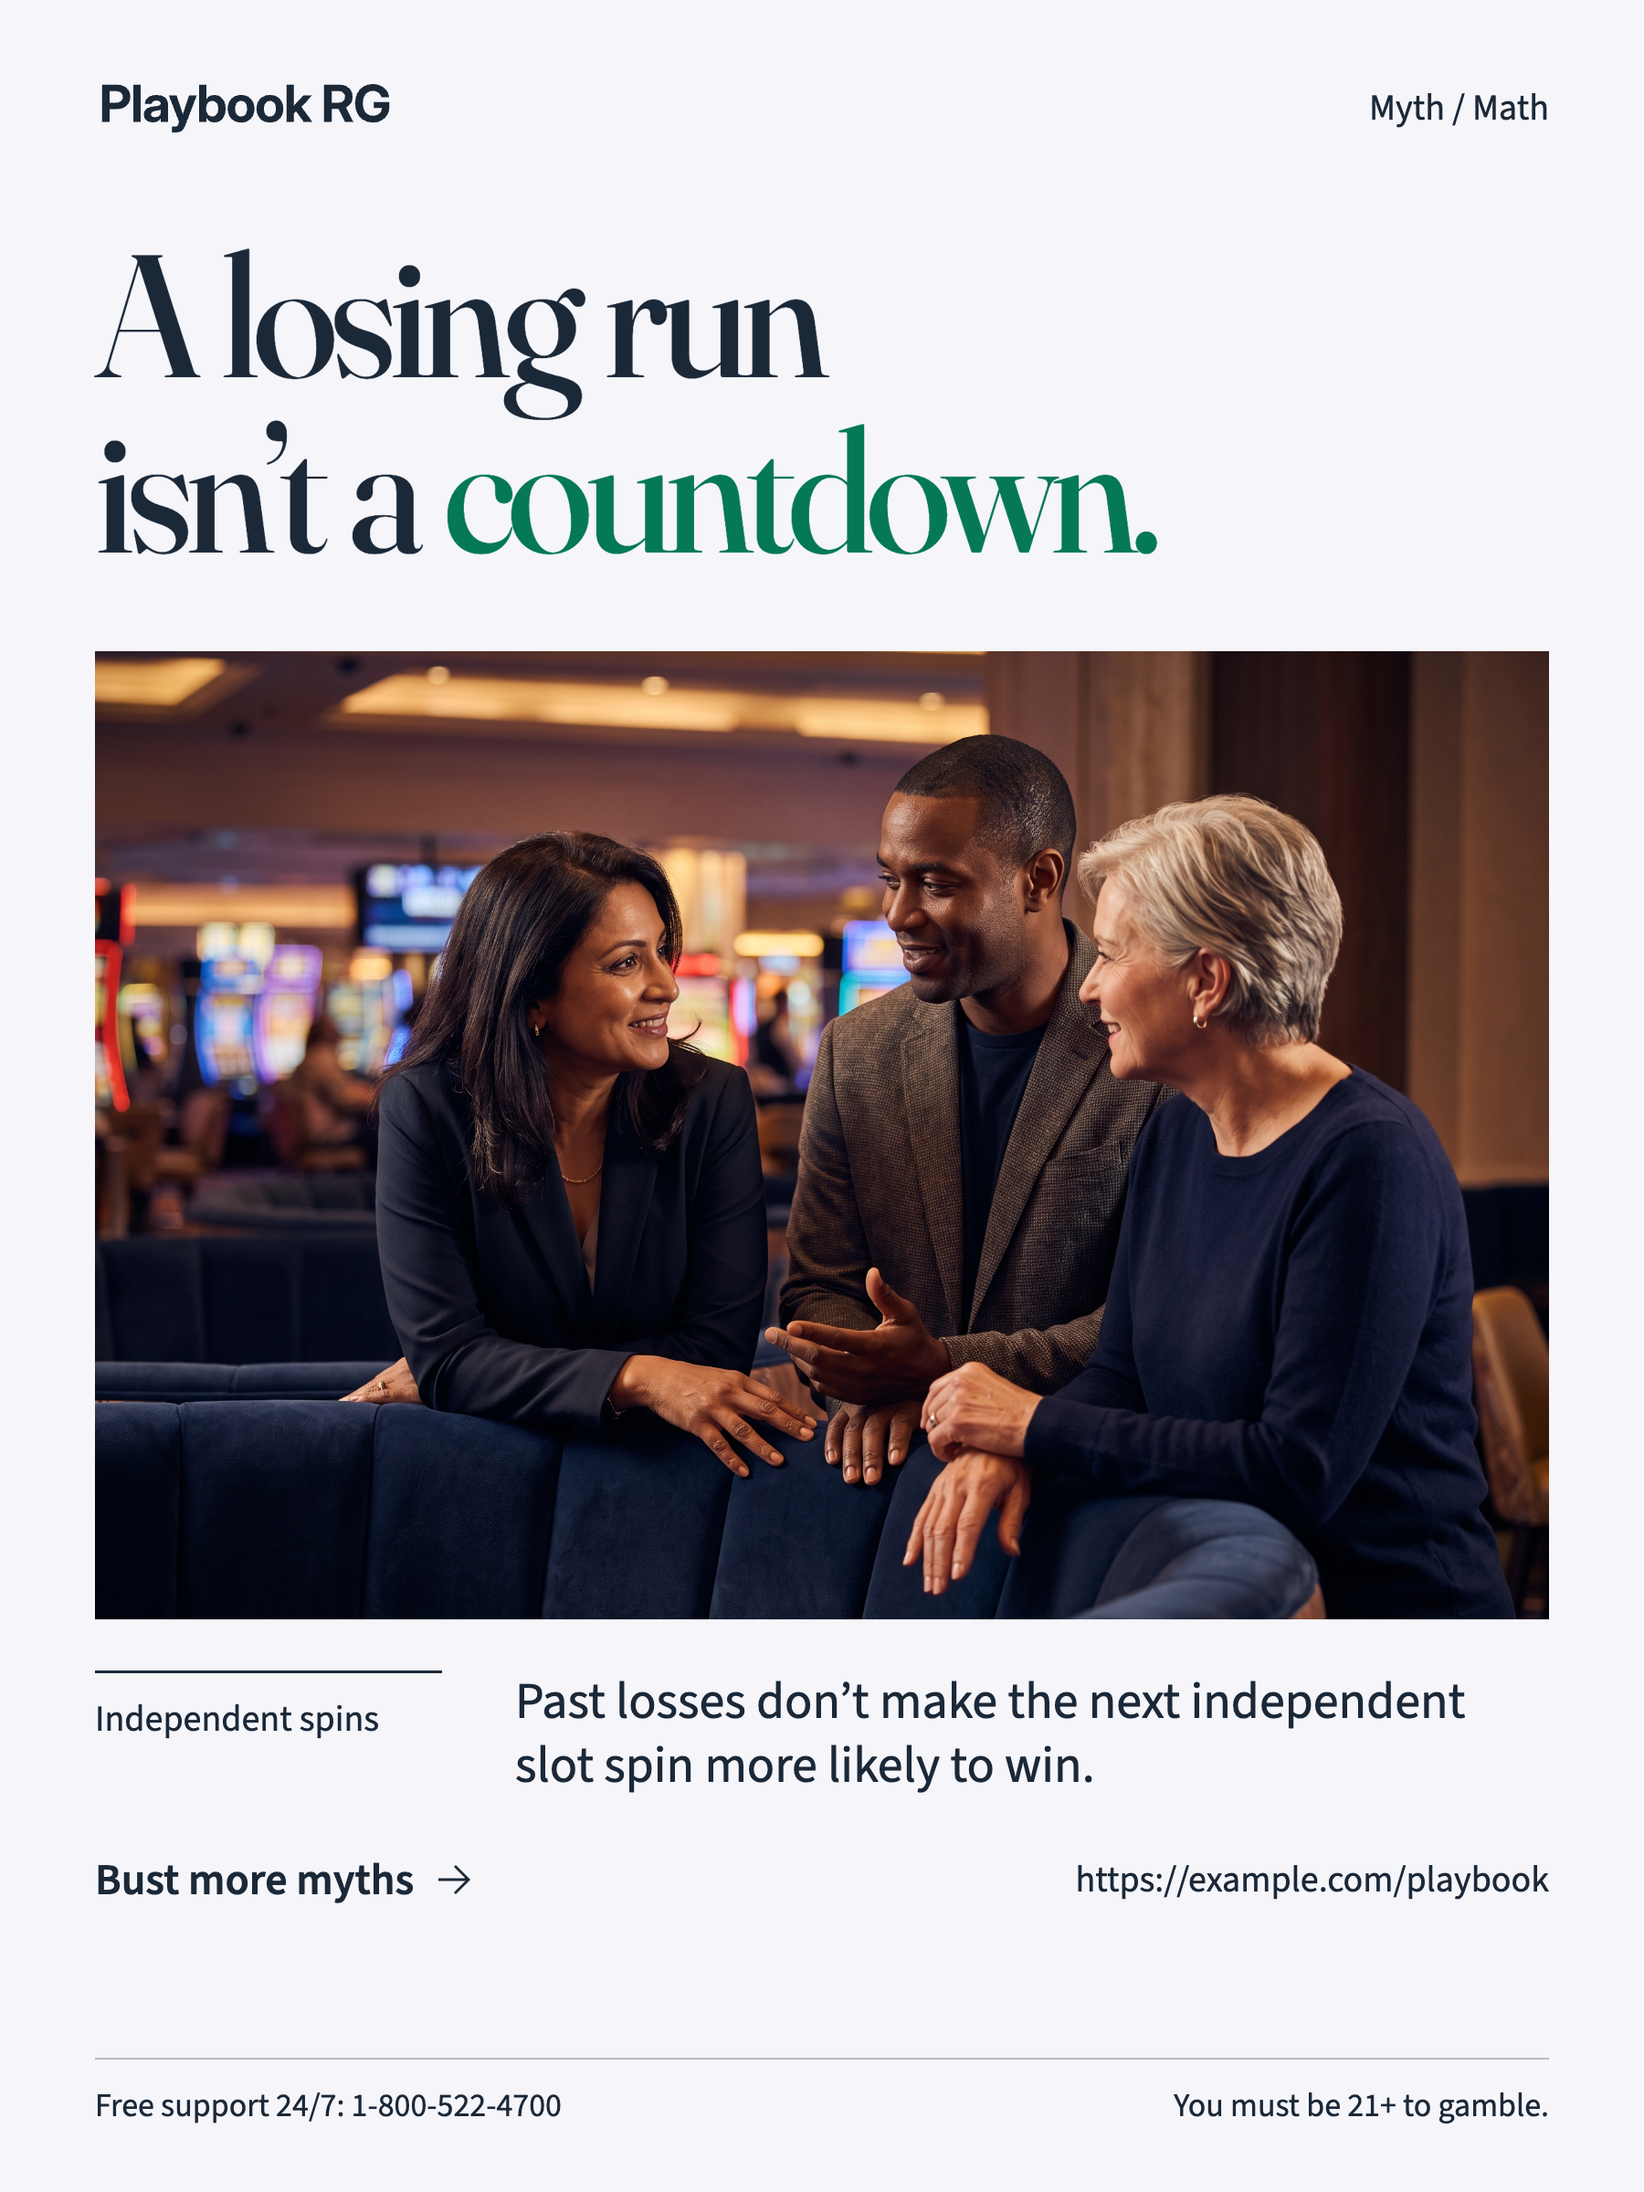
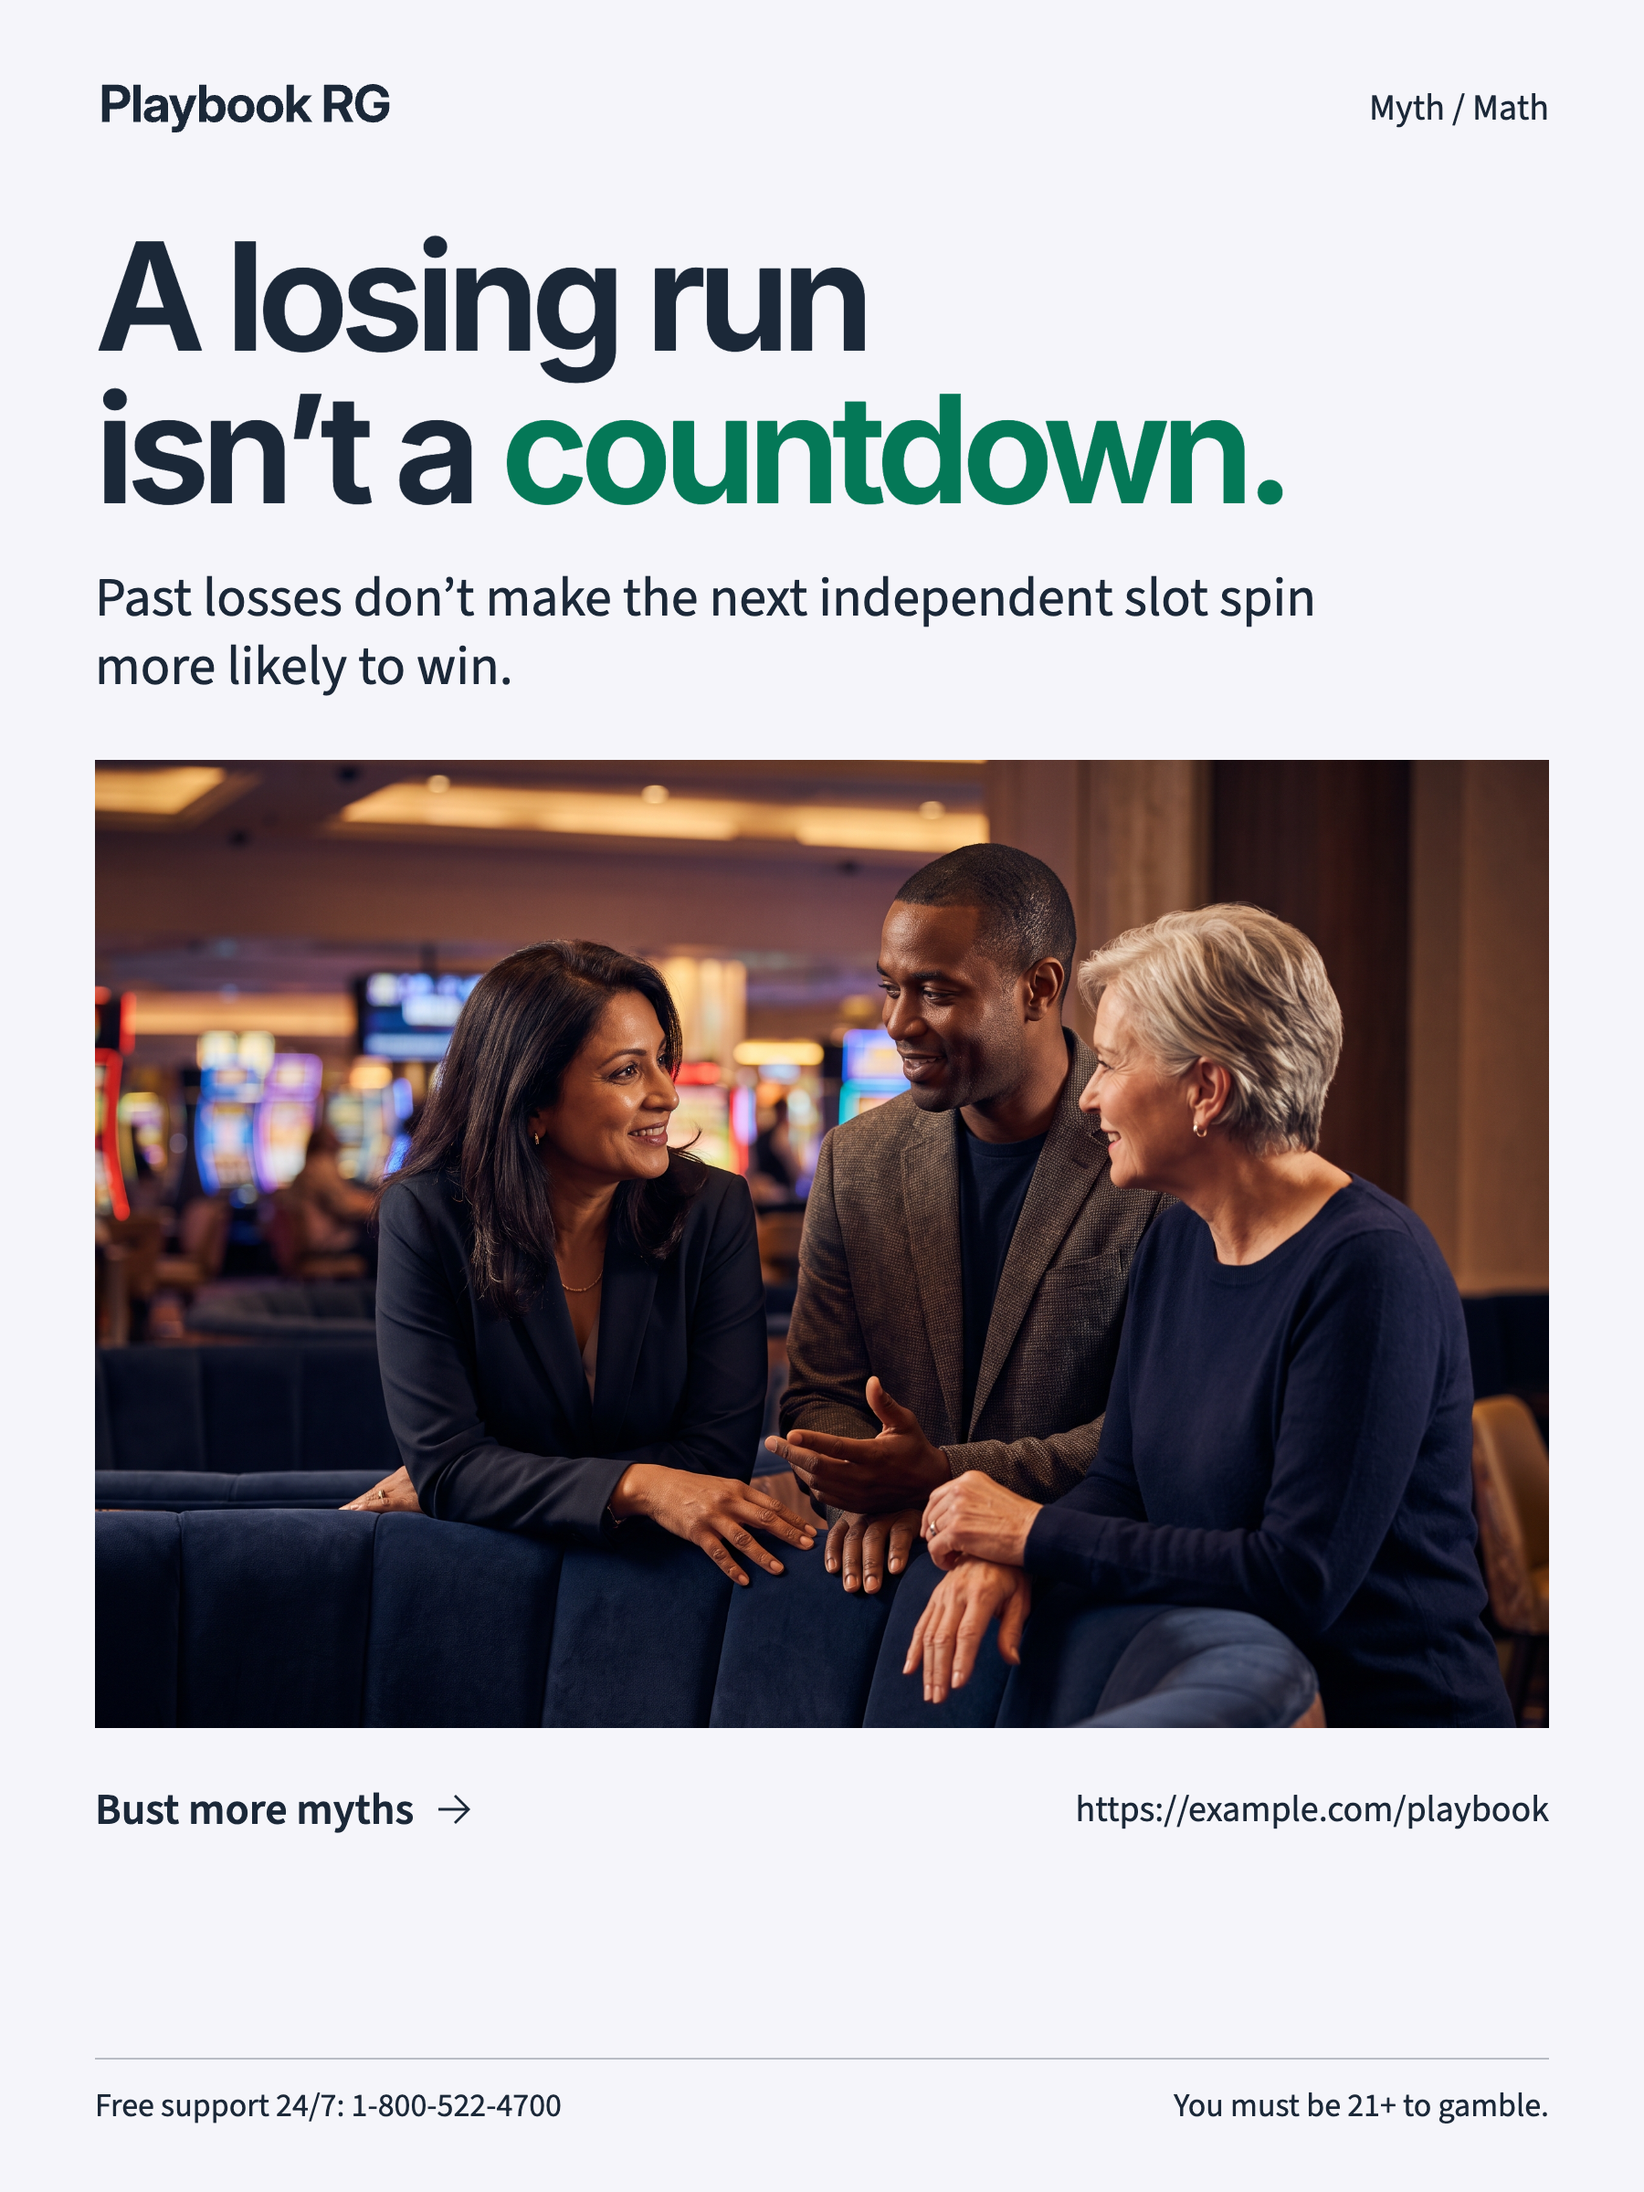
Preserve preferred concepts and revise photo typography

diff --git a/collateral/render/_comparison.html b/collateral/render/_comparison.html
@@ -142,29 +142,29 @@
 <section id="art-direction-review" aria-labelledby="art-review-title">
   <header class="art-review-intro">
     <p class="art-review-kicker">Creative review / September 5</p>
-    <h1 id="art-review-title">A fresh direction.</h1>
-    <p>Three reworked examples, beside the versions you just reviewed. Start here to judge the illustration, typography and photography.</p>
+    <h1 id="art-review-title">Two to keep. One to rework.</h1>
+    <p>You liked the changes in 1 and 2; both are kept as reviewed. For 3, compare the version you disliked with a new treatment informed by those preferences.</p>
     <nav aria-label="Latest artwork"><a href="#art-seat">Illustration</a><a href="#art-odds">Numbers</a><a href="#art-photo">Photography</a><a href="#earlier-comparisons">Earlier comparisons ↓</a></nav>
   </header>
   <article class="art-review-study" id="art-seat">
-    <header><p class="art-review-kicker">01</p><h2>One idea. One illustration.</h2><p>A bolder myth card, built around a simple visual metaphor.</p></header>
+    <header><p class="art-review-kicker">01 / Preferred · kept unchanged</p><h2>One idea. One illustration.</h2><p>A bolder myth card, built around a simple visual metaphor.</p></header>
     <div class="art-review-pair">
       <figure><figcaption>Previous version</figcaption><a href="comparison/art-direction-before/card-1c-lucky-machine.png" target="_blank" rel="noopener" aria-label="Open previous seat artwork at full size"><img src="comparison/art-direction-before/card-1c-lucky-machine.png" alt="Previous seat design" width="1080" height="1350" loading="eager"></a></figure>
-      <figure><figcaption>Revised direction</figcaption><a href="card-1c-lucky-machine.png?v=art-direction-1" target="_blank" rel="noopener" aria-label="Open revised seat artwork at full size"><img src="card-1c-lucky-machine.png?v=art-direction-1" alt="Revised seat design" width="1080" height="1350" loading="eager"></a></figure>
+      <figure><figcaption>Preferred direction · unchanged</figcaption><a href="card-1c-lucky-machine.png?v=art-direction-1" target="_blank" rel="noopener" aria-label="Open revised seat artwork at full size"><img src="card-1c-lucky-machine.png?v=art-direction-1" alt="Preferred seat design" width="1080" height="1350" loading="eager"></a></figure>
     </div>
   </article>
 <article class="art-review-study" id="art-odds">
-    <header><p class="art-review-kicker">02</p><h2>Let the numbers lead.</h2><p>An editorial comparison with larger rates and the assumptions beside them.</p></header>
+    <header><p class="art-review-kicker">02 / Preferred · kept unchanged</p><h2>Let the numbers lead.</h2><p>An editorial comparison with larger rates and the assumptions beside them.</p></header>
     <div class="art-review-pair">
       <figure><figcaption>Previous version</figcaption><a href="comparison/art-direction-before/card-2a-house-edge.png" target="_blank" rel="noopener" aria-label="Open previous odds artwork at full size"><img src="comparison/art-direction-before/card-2a-house-edge.png" alt="Previous odds design" width="1080" height="1350" loading="lazy"></a></figure>
-      <figure><figcaption>Revised direction</figcaption><a href="card-2a-house-edge.png?v=art-direction-1" target="_blank" rel="noopener" aria-label="Open revised odds artwork at full size"><img src="card-2a-house-edge.png?v=art-direction-1" alt="Revised odds design" width="1080" height="1350" loading="lazy"></a></figure>
+      <figure><figcaption>Preferred direction · unchanged</figcaption><a href="card-2a-house-edge.png?v=art-direction-1" target="_blank" rel="noopener" aria-label="Open revised odds artwork at full size"><img src="card-2a-house-edge.png?v=art-direction-1" alt="Preferred odds design" width="1080" height="1350" loading="lazy"></a></figure>
     </div>
   </article>
 <article class="art-review-study" id="art-photo">
-    <header><p class="art-review-kicker">03</p><h2>Give the photograph room.</h2><p>A quieter poster with expressive type, a deliberate crop and a clear reading surface.</p></header>
+    <header><p class="art-review-kicker">03 / New revision · awaiting your preference</p><h2>Make the message clearer.</h2><p>Bold sans-serif type and a simpler reading order. The same photograph and message, with a new treatment to compare.</p></header>
     <div class="art-review-pair">
-      <figure><figcaption>Previous version</figcaption><a href="comparison/art-direction-before/poster-19e-never-due.png" target="_blank" rel="noopener" aria-label="Open previous photo artwork at full size"><img src="comparison/art-direction-before/poster-19e-never-due.png" alt="Previous photo design" width="1080" height="1440" loading="lazy"></a></figure>
-      <figure><figcaption>Revised direction</figcaption><a href="poster-19e-never-due.png?v=art-direction-1" target="_blank" rel="noopener" aria-label="Open revised photo artwork at full size"><img src="poster-19e-never-due.png?v=art-direction-1" alt="Revised photo design" width="1080" height="1440" loading="lazy"></a></figure>
+      <figure><figcaption>Disliked · first revision</figcaption><a href="comparison/art-direction-round-1/poster-19e-never-due.png" target="_blank" rel="noopener" aria-label="Open previous photo artwork at full size"><img src="comparison/art-direction-round-1/poster-19e-never-due.png" alt="Disliked first revision of the photo poster" width="1080" height="1440" loading="lazy"></a></figure>
+      <figure><figcaption>New treatment · for review</figcaption><a href="poster-19e-never-due.png?v=art-direction-2" target="_blank" rel="noopener" aria-label="Open revised photo artwork at full size"><img src="poster-19e-never-due.png?v=art-direction-2" alt="New photo poster treatment for review" width="1080" height="1440" loading="lazy"></a></figure>
     </div>
   </article>
   <p class="art-review-end">These are three English concept revisions. The existing market-specific studies and wider library remain below.</p>

diff --git a/collateral/render/art-direction.css b/collateral/render/art-direction.css
@@ -53,18 +53,17 @@ body { margin: 0; background: var(--pb-color-neutral-50); }
 .ad-rate:first-child dd { color: var(--ad-accent); }
 .ad-odds .ad-footer { margin-top: auto; }
 
-/* A photographic essay: crisp crop and an opaque reading surface. */
+/* A direct photo-led message using the same typographic voice as 1 and 2. */
 body:has(.ad-photo) { padding: 24px; }
 .poster.ad-photo { width: 1800px; height: 2400px; padding: 84px 104px 72px; }
-.ad-photo { --ad-display: Fraunces, serif; --ad-weight: 450; }
+.ad-photo { --ad-weight: 650; }
 .ad-photo .ad-wordmark { width: 330px; height: 69px; }
 .ad-photo .ad-series { font-size: 40px; }
-.ad-photo h1 { font-size: var(--ad-heading-size,190px); line-height: 1.01; letter-spacing: -.04em; word-spacing: .03em; margin-top: 96px; position: relative; z-index: 1; }
+.ad-photo h1 { font-size: var(--ad-heading-size,164px); line-height: 1.02; letter-spacing: -.055em; margin-top: 88px; }
 .ad-photo h1 em { font-weight: inherit; font-style: normal; color: var(--ad-accent); }
-.ad-photo .ad-image { width: 100%; height: 1060px; object-fit: cover; object-position: var(--ad-focal-x, 50%) var(--ad-focal-y, 40%); display: block; margin-top: 80px; }
-.ad-photo .ad-caption { display: grid; grid-template-columns: 380px 1fr; gap: 80px; margin-top: 56px; }
-.ad-photo .ad-caption-label { border-top: 3px solid var(--ad-ink); padding-top: 22px; font-size: 40px; }
-.ad-photo .ad-caption p { font-size: 56px; line-height: 1.25; }
+.ad-photo .ad-image { width: 100%; height: 1060px; flex-shrink: 0; object-fit: cover; object-position: var(--ad-focal-x, 50%) var(--ad-focal-y, 40%); display: block; margin-top: 64px; }
+.ad-photo .ad-caption { margin-top: 42px; max-width: 1400px; }
+.ad-photo .ad-caption p { font-size: 60px; line-height: 1.25; }
 .ad-photo .ad-route { display: flex; justify-content: space-between; align-items: center; margin-top: 56px; gap: 30px; }
 .ad-photo .ad-route a { color: inherit; text-decoration: none; font-size: 40px; overflow-wrap: anywhere; }
 .ad-photo .ad-route a:first-child { font-weight: 600; font-size: 48px; }

diff --git a/collateral/render/poster-19e-never-due.html b/collateral/render/poster-19e-never-due.html
@@ -17,11 +17,10 @@
     <span class="ad-series">Myth / Math</span>
   </header>
   <h1>A losing run<br>isn’t a <em>countdown.</em></h1>
-  <img class="ad-image" src="../creative-review/photography/output/creative-refresh-20260905/creative-refresh/shared-input/casino-conversation/attempt-1/candidate-1-image-1.jpg" alt="Three adult friends share a relaxed conversation in a warmly lit casino lounge.">
   <div class="ad-caption">
-    <div class="ad-caption-label">Independent spins</div>
     <p>Past losses don’t make the next independent slot spin more likely to win.</p>
   </div>
+  <img class="ad-image" src="../creative-review/photography/output/creative-refresh-20260905/creative-refresh/shared-input/casino-conversation/attempt-1/candidate-1-image-1.jpg" alt="Three adult friends share a relaxed conversation in a warmly lit casino lounge.">
   <div class="ad-route">
     <a href="{{PROGRAM_URL}}">Bust more myths<svg class="ad-arrow" viewBox="0 0 48 48" aria-hidden="true"><path d="M7 24H40M25 9L40 24L25 39" fill="none" stroke="currentColor" stroke-width="3"/></svg></a>
     <a href="{{PROGRAM_URL}}">{{PROGRAM_URL}}</a>

diff --git a/collateral/render/ART-DIRECTION.md b/collateral/render/ART-DIRECTION.md
@@ -6,15 +6,27 @@ review before adopting a direction across the wider library.
 
 The seat card uses one repeated SVG chair and a single color field. The odds
 card gives values a common reading order, with blackjack assumptions and
-the game-dependent slots range kept beside the values. The photo poster
-uses a clear rectangular crop and live editorial type. Its existing AI
-photo and provenance remain in `../creative-review/photography/`.
+the game-dependent slots range kept beside the values.
+
+User feedback: “i like the changes in 1 and 2. i dislike 3.” The seat and
+odds masters and their rendered previews are kept unchanged. The first
+photo revision is retained as the rejected comparison, not an approved
+direction. The specific reason for disliking it has not been established.
+
+The second photo treatment tests the bold sans-serif voice of the two
+preferred cards. It brings the explanation directly beneath the headline
+and removes the secondary caption label. The photograph, crop, headline,
+explanation, CTA and configurable support content stay the same, so this
+comparison tests typography and hierarchy. This new treatment is pending
+user review; the feedback does not establish a rejection of photography
+in general. Existing AI photo provenance remains in
+`../creative-review/photography/`.
 
 All copy stays in HTML. `art-direction.css` owns layout and exposes paper,
 ink, accent, spot, display font, weight, headline size, and photo focal-point
 properties. Append a skin stylesheet after it to restyle the same document.
-The default palette resolves from the generated brand tokens; the photo
-study uses the existing locally licensed Fraunces face. Brand outlines are
+The default palette and heading face resolve from the generated brand tokens.
+Brand outlines are
 inlined from the generated logo file using `sync-art-direction-logos.mjs`.
 After regenerating the brand logo, rebuild this set to update its outlines.
 
@@ -26,6 +38,8 @@ preference gallery or stored choices.
 `comparison/art-direction-before/` preserves the exact PNGs from commit
 `a2b5476` that were under review, independent of the older gallery baseline.
 Keep these snapshots fixed when rebuilding.
+`comparison/art-direction-round-1/poster-19e-never-due.png` preserves the
+exact first photo revision from `fbef38c` for the next before/after pair.
 
 These are contact-and-age creative studies, not universal market clearance.
 The shared support contact and age disclaimer remain brand-configured.
